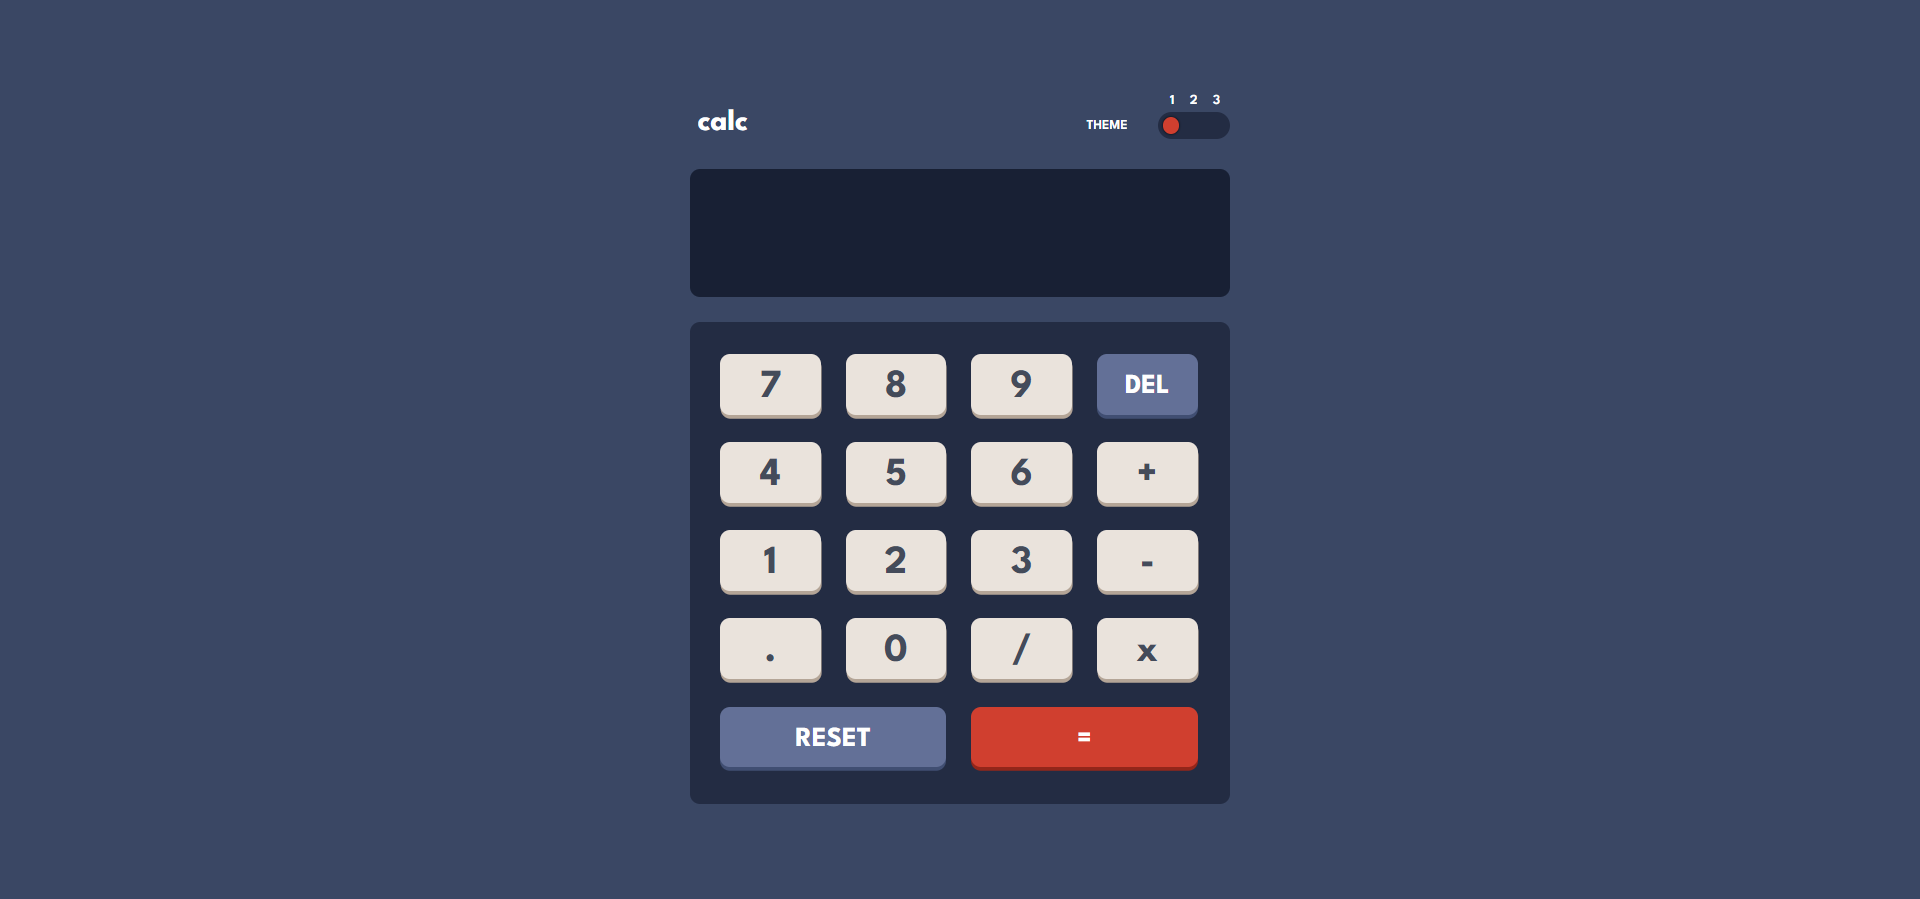
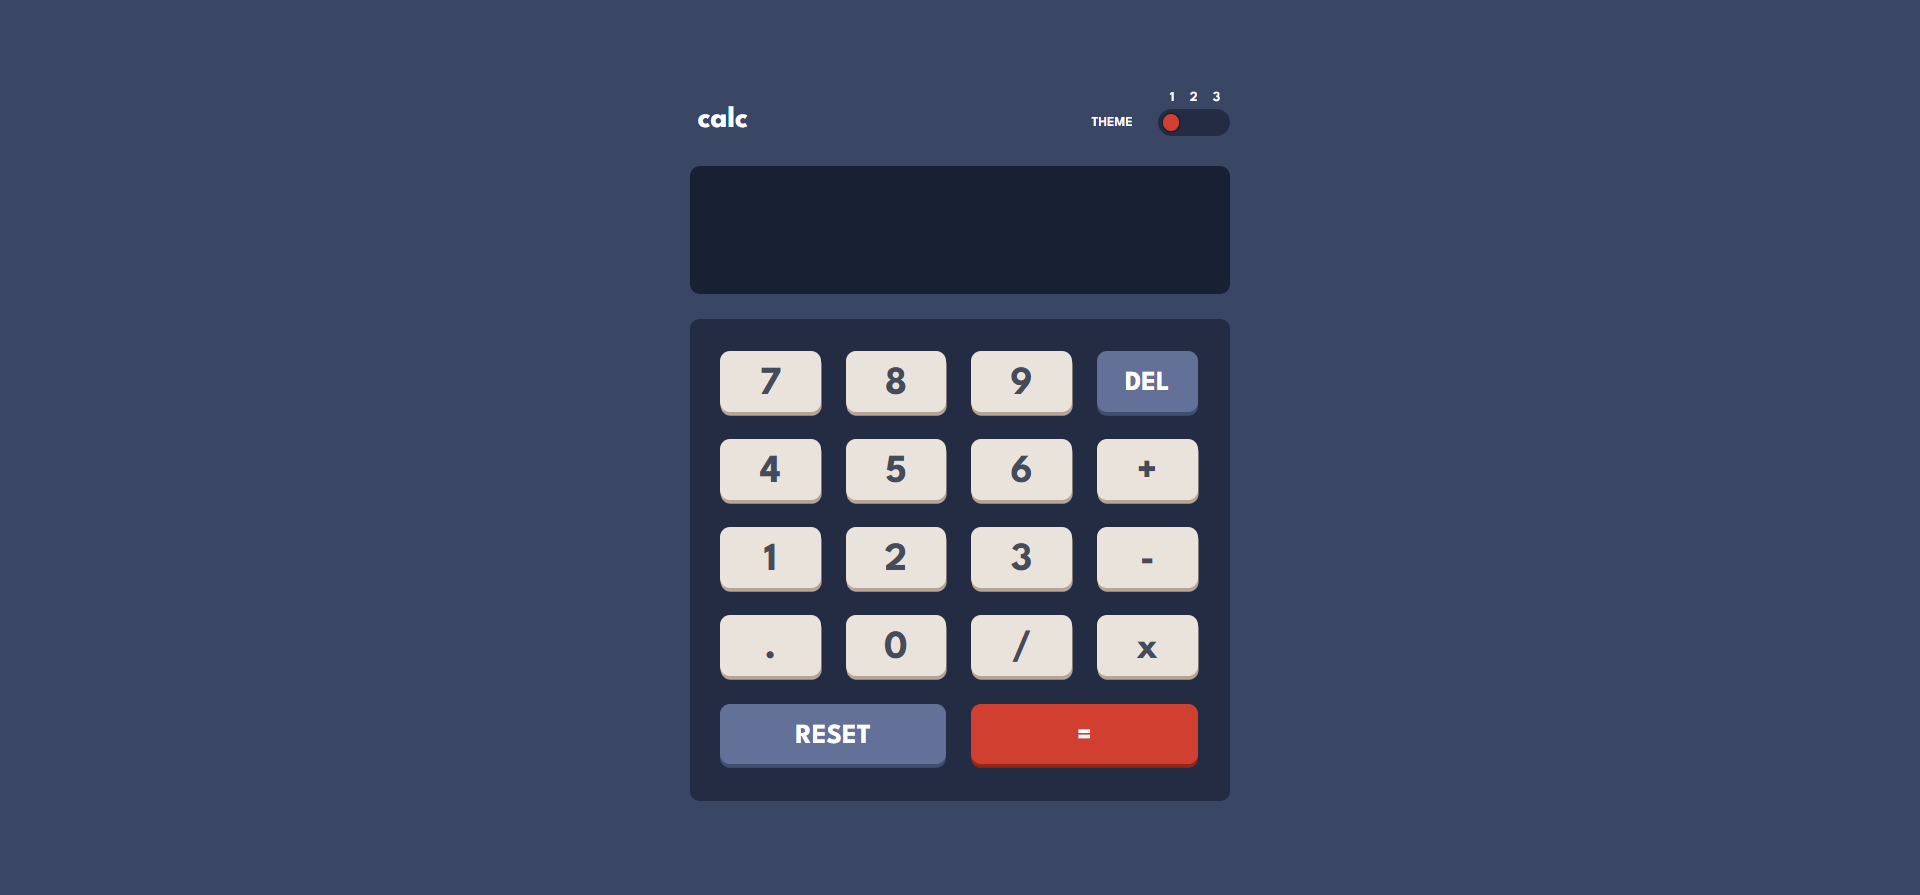
modified:   index.html 	modified:   public/design/sulution-screenshot.png 	modified:   src/css/style.css 	modified:   src/scss/style.scss

diff --git a/index.html b/index.html
@@ -6,7 +6,7 @@
     <link rel="icon" type="image/png" sizes="32x32" href="./public/images/favicon-32x32.png">
     <link rel="stylesheet" href="src/css/style.css">
     <link rel="stylesheet" href="src/css/input_range.css">
-    <title>Frontend Mentor | Calculator app</title>
+    <title>Calculator app</title>
 </head>
 <body>
     <main class="wrap">

diff --git a/src/css/style.css b/src/css/style.css
@@ -336,7 +336,7 @@ body, html {
 
 @media (max-width: 576px) {
   .wrap {
-    margin: 20px 32px;
+    margin: auto 32px;
     grid-template-rows: 44px 86px auto;
   }
   .calc-calc {

diff --git a/src/scss/style.scss b/src/scss/style.scss
@@ -224,7 +224,7 @@ body, html {
 
 @media (max-width: 576px) {
     .wrap {
-      margin: 20px 32px;
+      margin: auto 32px;
       grid-template-rows: 44px 86px auto;
     }
   
